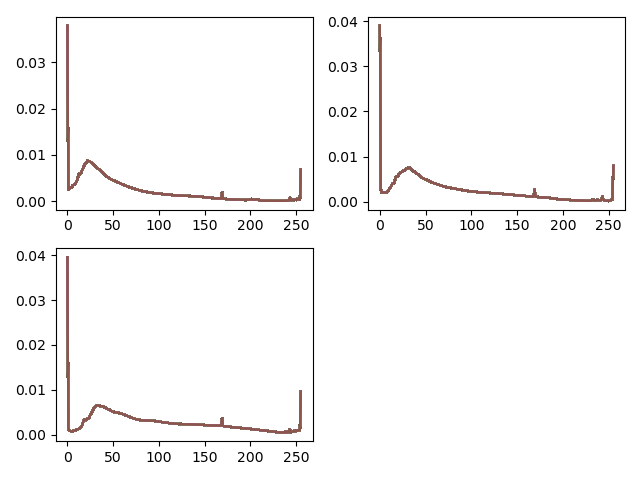
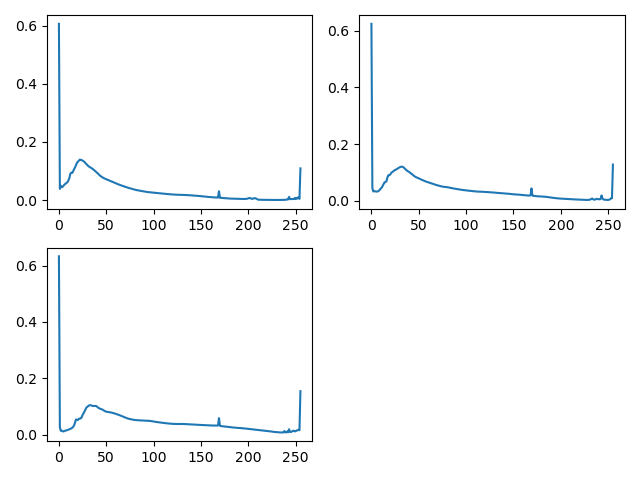
Aggiunti hist_*.npy in giro e aggiunto filtro sulla distanza hist in painting_detection

diff --git a/detection/canny_hough/painting_detection.py b/detection/canny_hough/painting_detection.py
@@ -1,5 +1,19 @@
 import cv2
 import numpy as np
+from preprocessing.avg_histogram.avg_histogram import hist_distance
+
+
+def calc_hist(frame):
+    bgr_planes = cv2.split(frame)
+    histSize = 256
+    histRange = (0, 256)  # the upper boundary is exclusive
+    hist_b = cv2.calcHist(bgr_planes, [0], None, [histSize], histRange)
+    hist_g = cv2.calcHist(bgr_planes, [1], None, [histSize], histRange)
+    hist_r = cv2.calcHist(bgr_planes, [2], None, [histSize], histRange)
+    cv2.normalize(hist_b, hist_b, 1, 0, norm_type=cv2.NORM_L2)
+    cv2.normalize(hist_g, hist_g, 1, 0, norm_type=cv2.NORM_L2)
+    cv2.normalize(hist_r, hist_r, 1, 0, norm_type=cv2.NORM_L2)
+    return hist_b, hist_g, hist_r
 
 
 def get_contours(frame):
@@ -18,15 +32,16 @@ def get_contours(frame):
         peri = cv2.arcLength(cnt, True)
         approx = cv2.approxPolyDP(cnt, 0.05 * peri, True)
         x, y, w, h = cv2.boundingRect(approx)
-        if ((img_dil.shape[0] - 1) * (img_dil.shape[1] - 1) * .99) > w * h and \
-                area > 30000 and \
-                area > 0.5 * (w * h) and \
-                len(approx) == 4:
+        hist_b, hist_g, hist_r = calc_hist(frame[y:y + h, x:x + w, :])
+        if ((img_dil.shape[0] - 1) * (img_dil.shape[1] - 1) * .99) > w * h > (
+                (img_dil.shape[0] - 1) * (img_dil.shape[1] - 1) * 0.005) and len(approx) == 4 and \
+                hist_distance(hist_b, hist_g, hist_r, method=cv2.HISTCMP_CORREL) > 0.4:
             bbox = {'x': x, 'y': y, 'height': h, 'width': w, 'approx': approx}
             bbox_list.append(bbox)
             cv2.rectangle(img_cnts, (x, y), (x + w, y + h), (255, 0, 0), 10)
             cv2.putText(img_cnts, "Area: " + str(int(area)), (x + w + 20, y + 20),
                         cv2.FONT_HERSHEY_COMPLEX, 0.7, (255, 0, 0), 2)
+
     return bbox_list, img_cnts
 
 
